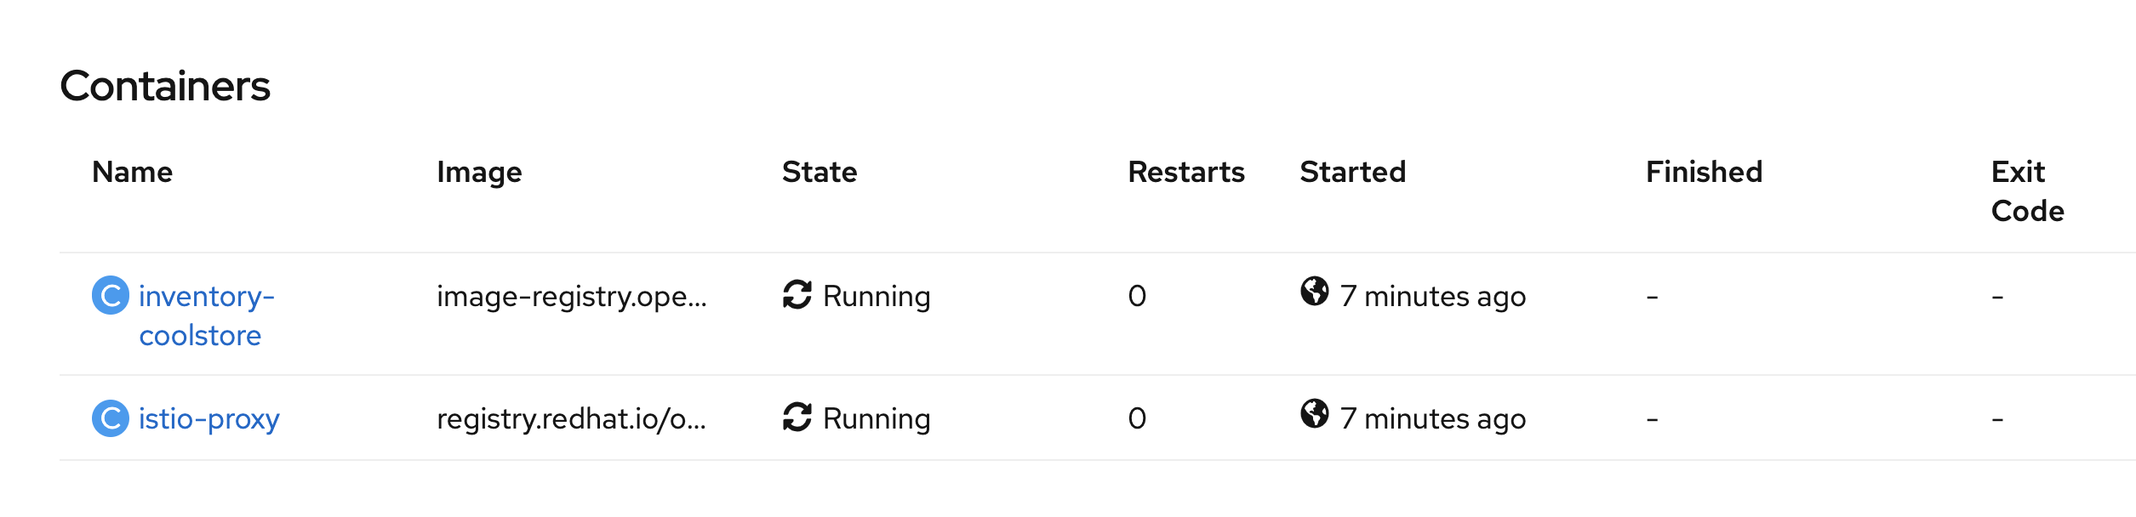
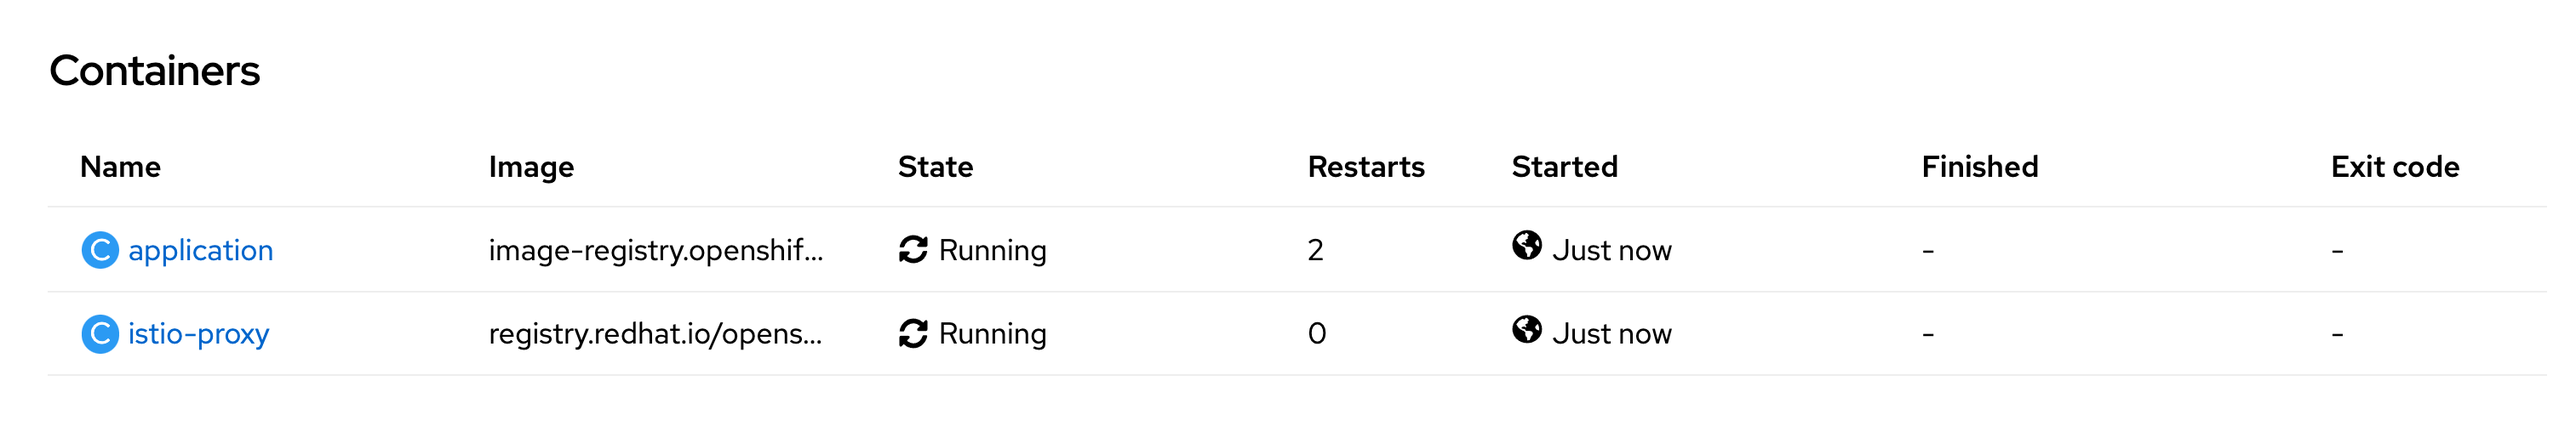
[CI] Publish Documentation for a40310b28f0e3dd977f7893d9cf500c77d8f1a1d - a40310b28f0e3dd977f7893d9cf500c77d8f1a1d 🚀

diff --git a/outer-loop/6.0/service-mesh.html b/outer-loop/6.0/service-mesh.html
@@ -236,15 +236,10 @@
 <p><code><strong>Click on the 'Save' button</strong></code></p>
 </div>
 <div class="paragraph">
-<p>Now, let&#8217;s deploy this new configuration. <code><strong>Click on the 'POD' tab &#8594; 'Actions' &#8594; 'Start Rollout'</strong></code></p>
-</div>
-<div class="imageblock">
-<div class="content">
-<img src="_images/openshift-rollout-inventory.png" alt="OpenShift - Rollout Inventory" width="700">
-</div>
+<p>Now, let&#8217;s check the outcome. <code><strong>Click on the 'POD' tab</strong></code></p>
 </div>
 <div class="paragraph">
-<p>The current pod will be terminated and a new one will be deployed with 2/2 containers in the <strong>Ready</strong> column.</p>
+<p>The current pod will be terminated and a new one will be deployed with 2/2 containers in the <strong>Ready</strong> column as follows</p>
 </div>
 <div class="imageblock">
 <div class="content">
@@ -253,11 +248,11 @@
 </div>
 <div class="paragraph">
 <p><code><strong>Click on 'P inventory-coolstore-xxxx' then scroll down.</strong></code>
-In the Container section, we should have 2 containers: <strong>One for the inventory-coolstore application and one for the istio-proxy sidecar.</strong></p>
+In the Container section, we should have 2 containers: <strong>One for the application and one for the istio-proxy sidecar.</strong></p>
 </div>
 <div class="imageblock">
 <div class="content">
-<img src="_images/openshift-istio-inventory-details.png" alt="OpenShift - Istio Inventory" width="700">
+<img src="_images/openshift-istio-inventory-details.png" alt="OpenShift - Istio Inventory" width="900">
 </div>
 </div>
 <div class="paragraph">
@@ -273,17 +268,7 @@ In the Container section, we should have 2 containers: <strong>One for the inven
 </div>
 <div class="paragraph">
 <p>Once done, to verify the deployment, <strong>in the Container section</strong> of the <strong>'catalog-coolstore-xxxx' and 'gateway-coolstore-xxxx'</strong> pods,
-<code><strong>we should find the 2 containers</strong></code>, one for the application, the other the istio-proxy sidecar.</p>
-</div>
-<div class="imageblock">
-<div class="content">
-<img src="_images/openshift-istio-catalog-details.png" alt="OpenShift - Istio Catalog" width="700">
-</div>
-</div>
-<div class="imageblock">
-<div class="content">
-<img src="_images/openshift-istio-gateway-details.png" alt="OpenShift - Istio Gateway" width="700">
-</div>
+<code><strong>we should find the 2 containers as well</strong></code>, one for the application, the other the istio-proxy sidecar.</p>
 </div>
 </div>
 </div>
@@ -328,7 +313,7 @@ In an OpenShift Service Mesh, a better approach is to use a different configurat
 <pre class="highlightjs highlight"><code class="language-yaml hljs" data-lang="yaml">apiVersion: networking.istio.io/v1beta1
 kind: Gateway
 metadata:
-  name: gateway-coolstore
+  name: ingressgateway
   namespace: cn-project%USER_ID%
 spec:
   selector:
@@ -339,7 +324,7 @@ spec:
         name: http
         protocol: HTTP
       hosts:
-        - "*"</code></pre>
+        - "ingressgateway-cn-project%USER_ID%.%APPS_HOSTNAME_SUFFIX%"</code></pre>
 </div>
 </div>
 <div class="paragraph">
@@ -365,16 +350,11 @@ metadata:
   namespace: cn-project%USER_ID%
 spec:
   hosts:
-    - "*"
+    - "ingressgateway-cn-project%USER_ID%.%APPS_HOSTNAME_SUFFIX%"
   gateways:
-    - gateway-coolstore
+    - ingressgateway
   http:
-    - match:
-        - uri:
-            prefix: /cn-project%USER_ID%/api
-      rewrite:
-        uri: "/api"
-      route:
+    - route:
         - destination:
             port:
               number: 8080
@@ -386,7 +366,7 @@ spec:
 </div>
 <div class="paragraph">
 <p>To confirm that the <strong>Istio Gateway</strong> is properly configured,
-<code><strong>click on <a href="http://istio-ingressgateway-istio-system.%APPS_HOSTNAME_SUFFIX%/cn-project%USER_ID%/api/products" class="params-link" target="_blank" rel="noopener">http://istio-ingressgateway-istio-system.%APPS_HOSTNAME_SUFFIX%/cn-project%USER_ID%/api/products</a></strong></code></p>
+<code><strong>click on <a href="http://ingressgateway-cn-project%USER_ID%.%APPS_HOSTNAME_SUFFIX%/api/products" class="params-link" target="_blank" rel="noopener">http://ingressgateway-cn-project%USER_ID%.%APPS_HOSTNAME_SUFFIX%/api/products</a></strong></code></p>
 </div>
 <div class="paragraph">
 <p>You should have the following result:</p>
@@ -436,7 +416,7 @@ spec:
 <tbody>
 <tr>
 <td class="tableblock halign-left valign-top"><p class="tableblock">COOLSTORE_GW_ENDPOINT</p></td>
-<td class="tableblock halign-left valign-top"><p class="tableblock">http://istio-ingressgateway-istio-system.%APPS_HOSTNAME_SUFFIX%/cn-project%USER_ID%</p></td>
+<td class="tableblock halign-left valign-top"><p class="tableblock">http://ingressgateway-cn-project%USER_ID%.%APPS_HOSTNAME_SUFFIX%</p></td>
 </tr>
 </tbody>
 </table>
